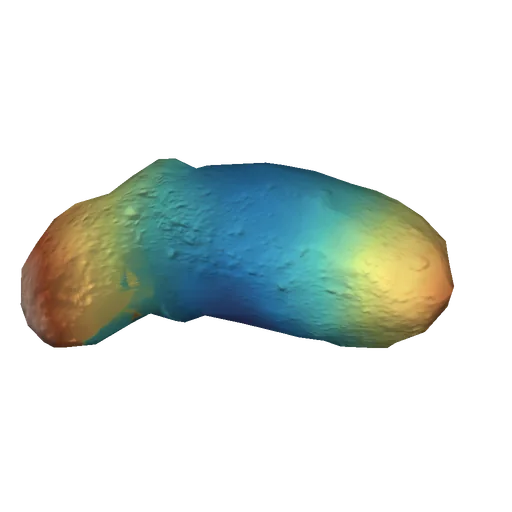
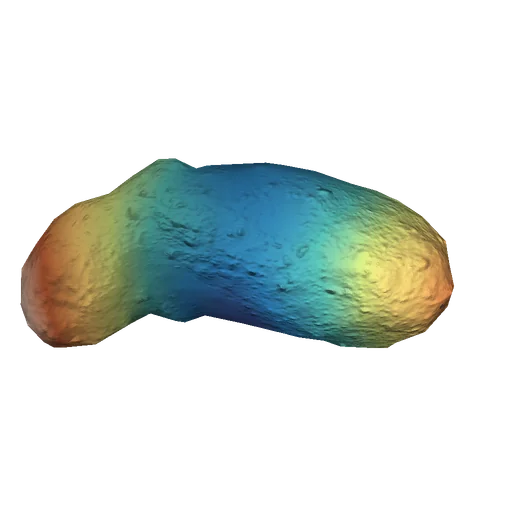
Close navigation provenance and scientific regression fixtures

diff --git a/docs/faithfulness-validation.md b/docs/faithfulness-validation.md
@@ -1,0 +1,73 @@
+# Faithfulness repair validation
+
+Validation used Node 24.19.0 and real Chrome 152.0.7977.76 on macOS. The branch incorporates
+main `a133fe30cf419f4bd2200872a18a29e46328483d`. See
+[the finding-by-finding corrections](faithfulness-fixes.md) for scientific scope
+and unresolved interpretation limits. The sixteen newer moons retain their
+upstream packages; this is not a new scientific audit of those bodies.
+
+## Passing checks
+
+- `pnpm acquire:planets -- --verify-only`: 87 bodies, 2,173 pinned files.
+- `pnpm prepare:factsheets -- --check --editorial`: 87 bodies, 589 facts.
+- Package and renderer suites, and all 785 platform tests from `pnpm test`.
+- `pnpm build`; renderer and preparation typechecks.
+- 139 universe/frame preparation tests, plus 53 focused epoch/source checks.
+- 29 source-surface tests, nine independently computed full-source anchors,
+  and four actual retained-leaf atlas witnesses (maximum RGB errors 1/1/2/1).
+- Sun preparation 5/5: all 60 raster assets reproduce byte-identically with
+  the unchanged mounted-file isolation guard. Moon/Pluto source closures 2/2.
+- Selected-view Chrome checks at DPR 1 and 2, opposite pole views, and both
+  shadow settings; touch layouts at 390 × 844 with no horizontal overflow.
+  Reduced-motion changes preserve the permanent rotation explanation.
+- `pnpm test:browser http://127.0.0.1:4285`: all 87 bodies at DPR 1 and 2
+  (174 visits), plus six navigation hops at each density. Exactly one scene,
+  stable retained DOM, no node/stylesheet growth, and zero reported errors.
+
+The complete browser run used the production preview. The final navigation
+source/atlas correction receives its separate regeneration and browser check.
+
+## Fresh installation
+
+Published the changed Jupiter, Mars, Itokawa, Ryugu, Eros and Bennu runtime
+inventories through the existing immutable asset publisher. In a fresh export of
+commit `39f52eee67f19c01a3637bf6c3998878b85aea86`, the documented setup CLI
+downloaded all 1,304 files (157,470,061 bytes), with zero reused scene assets and
+no source preparation. This is the combined install size, not measured cold page
+transfer or decoded memory.
+
+Each of those six routes and its corrected selected lens then loaded in a fresh
+Chrome context against the production build, serving scene files only from that
+new installation. Shared built HTML/bundles were supplied from the validated
+build. Visible images decoded, exactly one textured scene mounted, and no page
+errors or failed HTTP responses were observed. Cached development assets were
+not used as installation evidence.
+
+## Existing aggregate failures
+
+These were checked against clean main `a133fe30`; they are not reported as green.
+
+| Check | Existing discrepancy |
+| --- | --- |
+| `pnpm test:preparation` | Six remaining failures: Mercury/Venus encoded sky byte/hash fixtures; Ceres download coverage for a repository-authored map; Kleopatra's `.gitignore` directory allowlist; three Mercury parity fixtures with stale epoch wording or old marker layout. |
+| `pnpm test:planets` | Stops in the Sun capability suite on three existing Moon/Pluto/Sun regeneration mismatches. The fixture omits canonical motion/facing finalization; Moon/Sun retain different pool capacities; Sun's stored orbit fade differs from the authored policy. Later bodies are not covered by this aggregate run. |
+| Ceres surface test | Independently reproduced on main: seam-gutter pixel `[2,2,2,255]` versus expected `[1,1,1,255]`; other two Ceres surface checks pass. |
+
+The original full preparation run passed 554/562. Its Earth-center expectation
+was the one task-caused failure: the corrected test now parses and SHA-verifies
+the pinned Horizons Earth-to-EMB vector independently. An obsolete marker fixture
+was also repaired to remove both actual marker suppliers. Those two checks pass;
+the six baseline failures above remain. This does not claim a second complete
+preparation run passed.
+
+The initial `pnpm test` run exposed a stale Itokawa navigation-image pin after its
+scientific context image changed. The navigation recipe, manifest, descriptor
+and shared atlases were subsequently corrected through their preparation owners.
+The initial static Sun isolation run overlapped the build and detected a mounted
+file change; its isolated rerun passed without weakening the guard. The initial
+development browser server exited mid-run; production-preview evidence replaces
+that incomplete run.
+
+These records establish bounded source, numerical, installation and browser
+checks. They do not establish live ephemeris accuracy, unresolved texture lineage,
+or scientific accuracy for every pixel and newly registered body.

diff --git a/src/planets/itokawa/SOURCE.md b/src/planets/itokawa/SOURCE.md
@@ -31,4 +31,4 @@ An independent check used trimesh 4.8.3 closest_point_naive to measure 3,200 equ
 
 Headless Chrome 152 visual checks covered every lens with Shadows off and on at DPR 1 and 2, plus opposite/polar poses and close zoom. Fine triangle-edge artifacts remain visible in smooth areas, particularly Itokawa elevation. They persisted in a flat-color diagnostic and existing PolyCSS overlap variants; they are a rendering limitation, not source terrain.
 
-The navigation context image uses the same three-dimensional source-surface sampler as the Elevation atlas. Regenerate a candidate without changing pins using `node tools/objects/terrestrial-layers/prepare-source-surface-context.mjs itokawa output/itokawa-context.png`; review it, then update only the generated context image and its generated-intermediate digest. Ordinary object preparation reproduces and verifies those reviewed bytes.
+The navigation context image uses the same three-dimensional source-surface sampler as the Elevation atlas. Regenerate a candidate without changing pins using `node tools/objects/terrestrial-layers/prepare-source-surface-context.mjs itokawa output/itokawa-context.png`; review it, then update the generated context image and its generated-intermediate digest. The navigation recipe also pins those same context bytes: update its source digest, refresh the navigation document digest in the source manifest and the navigation-source digest in `object.json`, then run `pnpm prepare:navigation` to regenerate the shared marker atlases and resolved context marker. Ordinary object preparation reproduces and verifies the reviewed context bytes.
